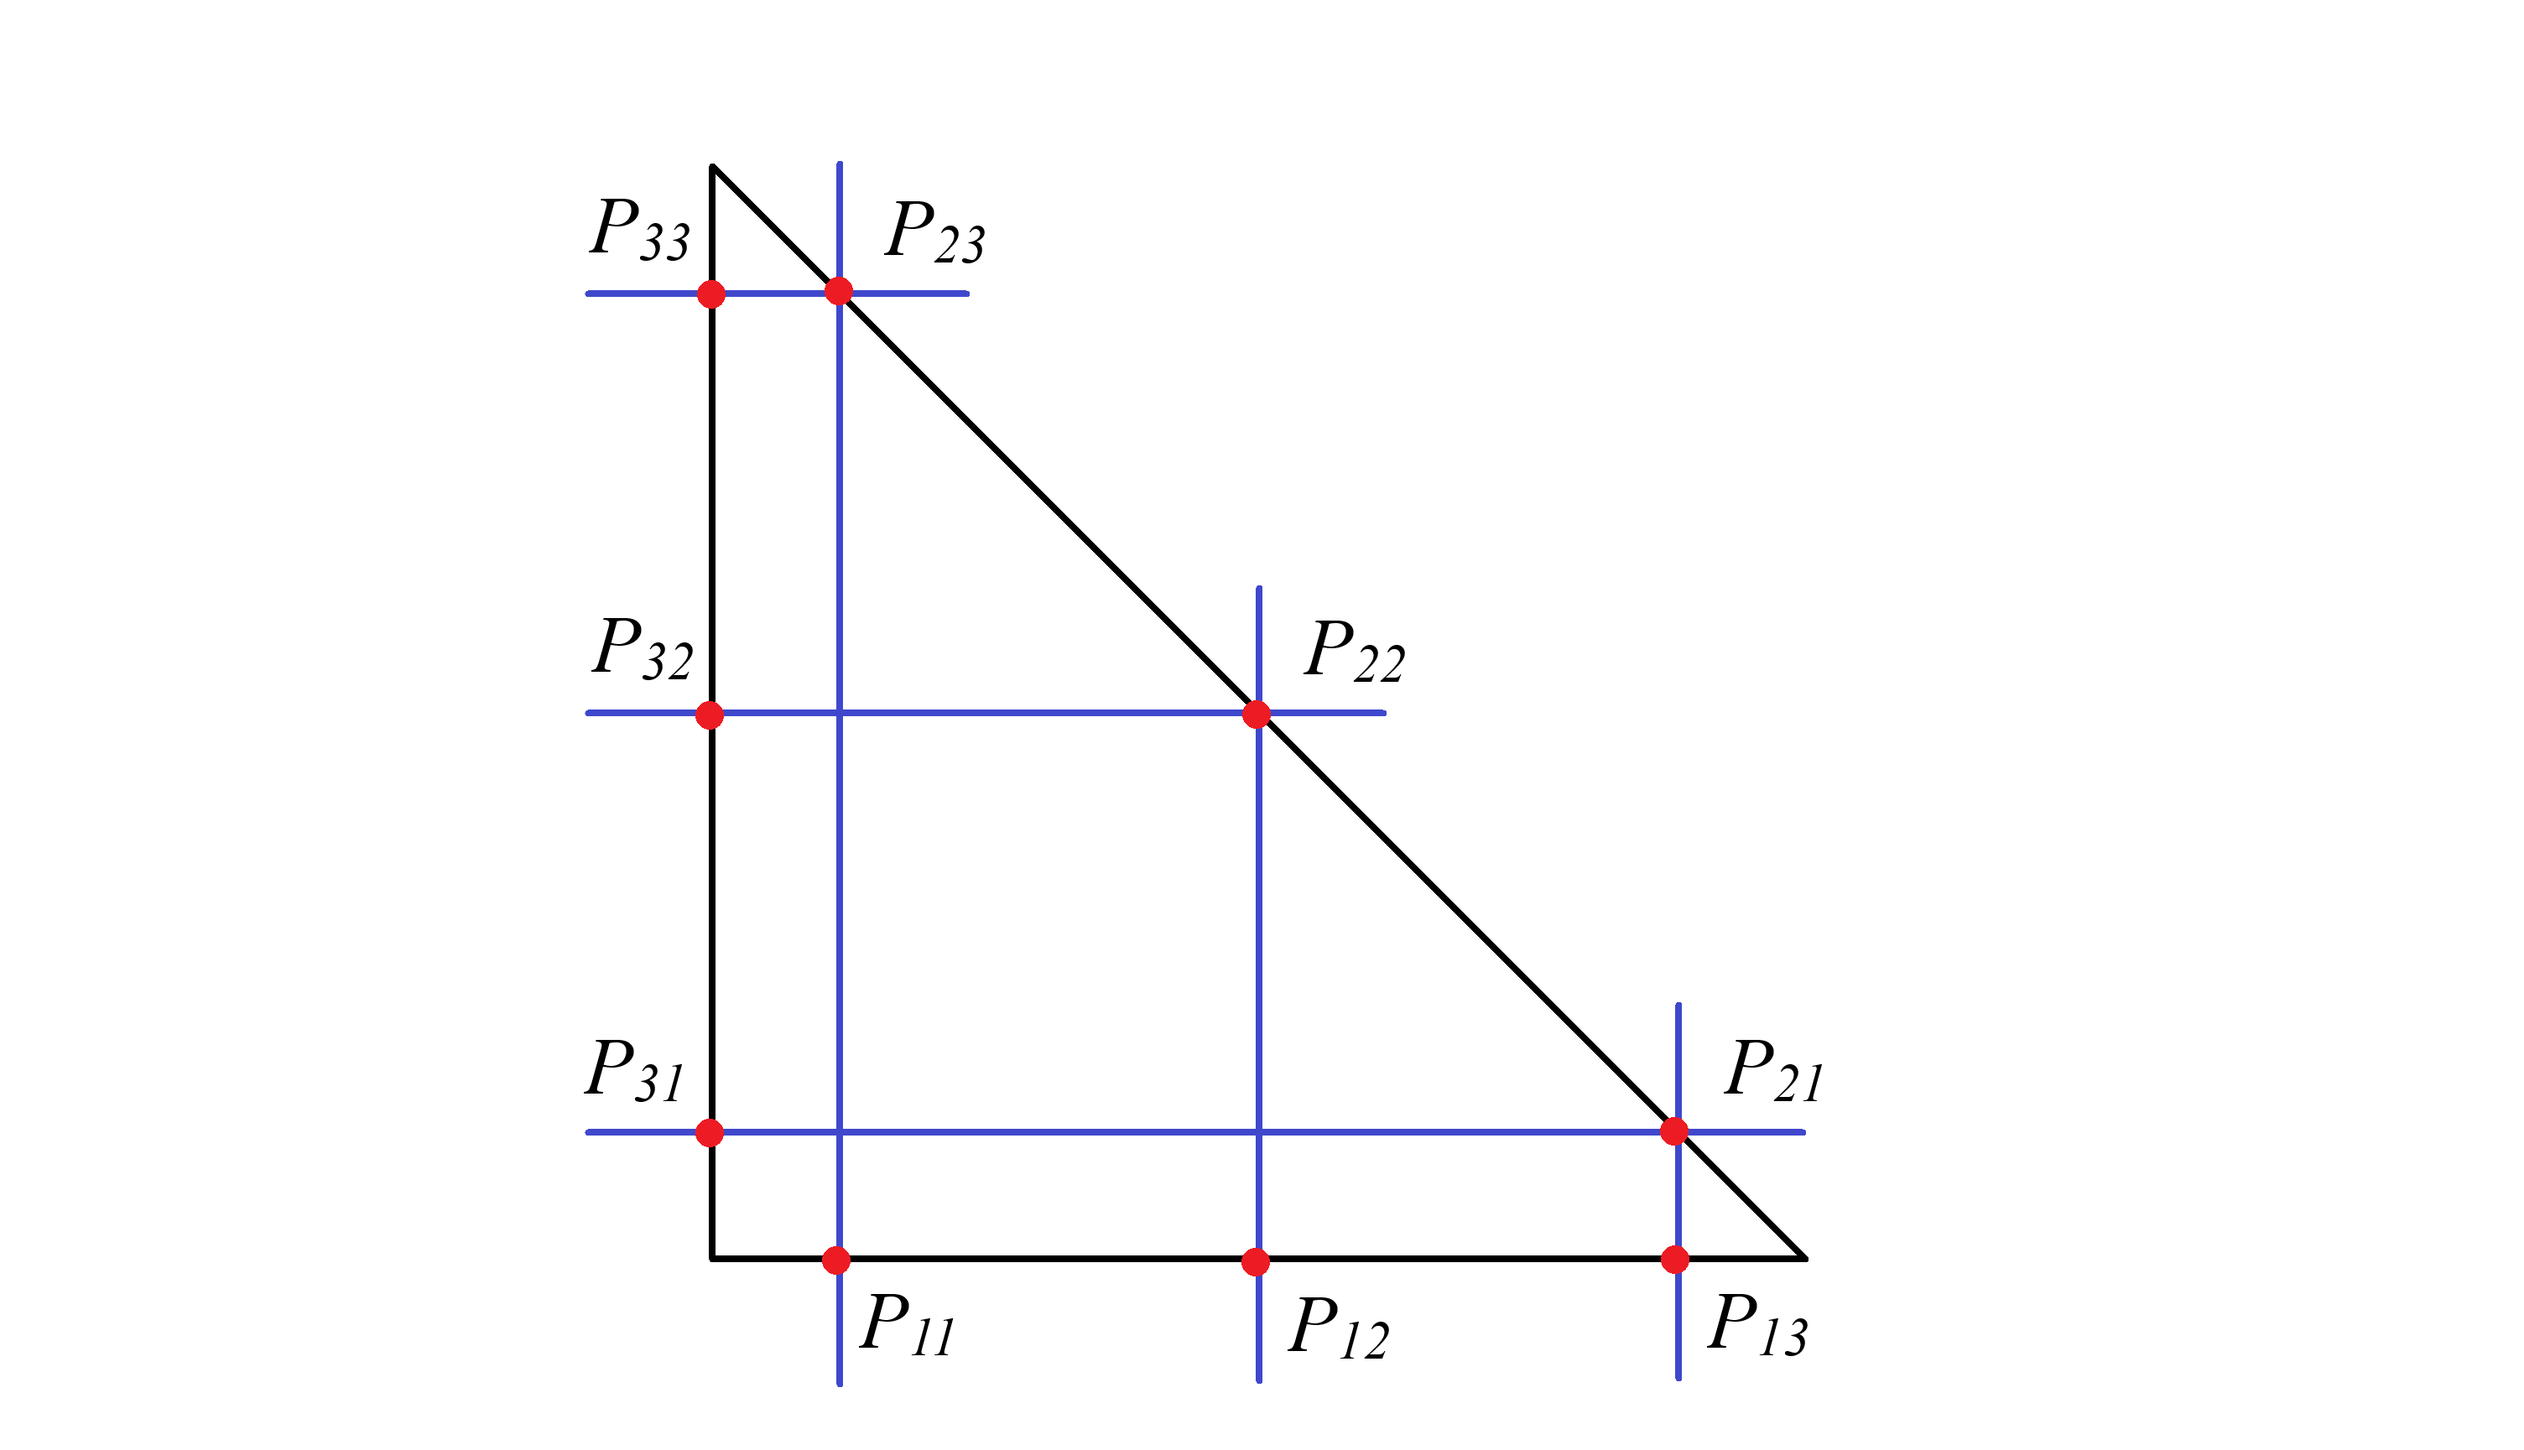
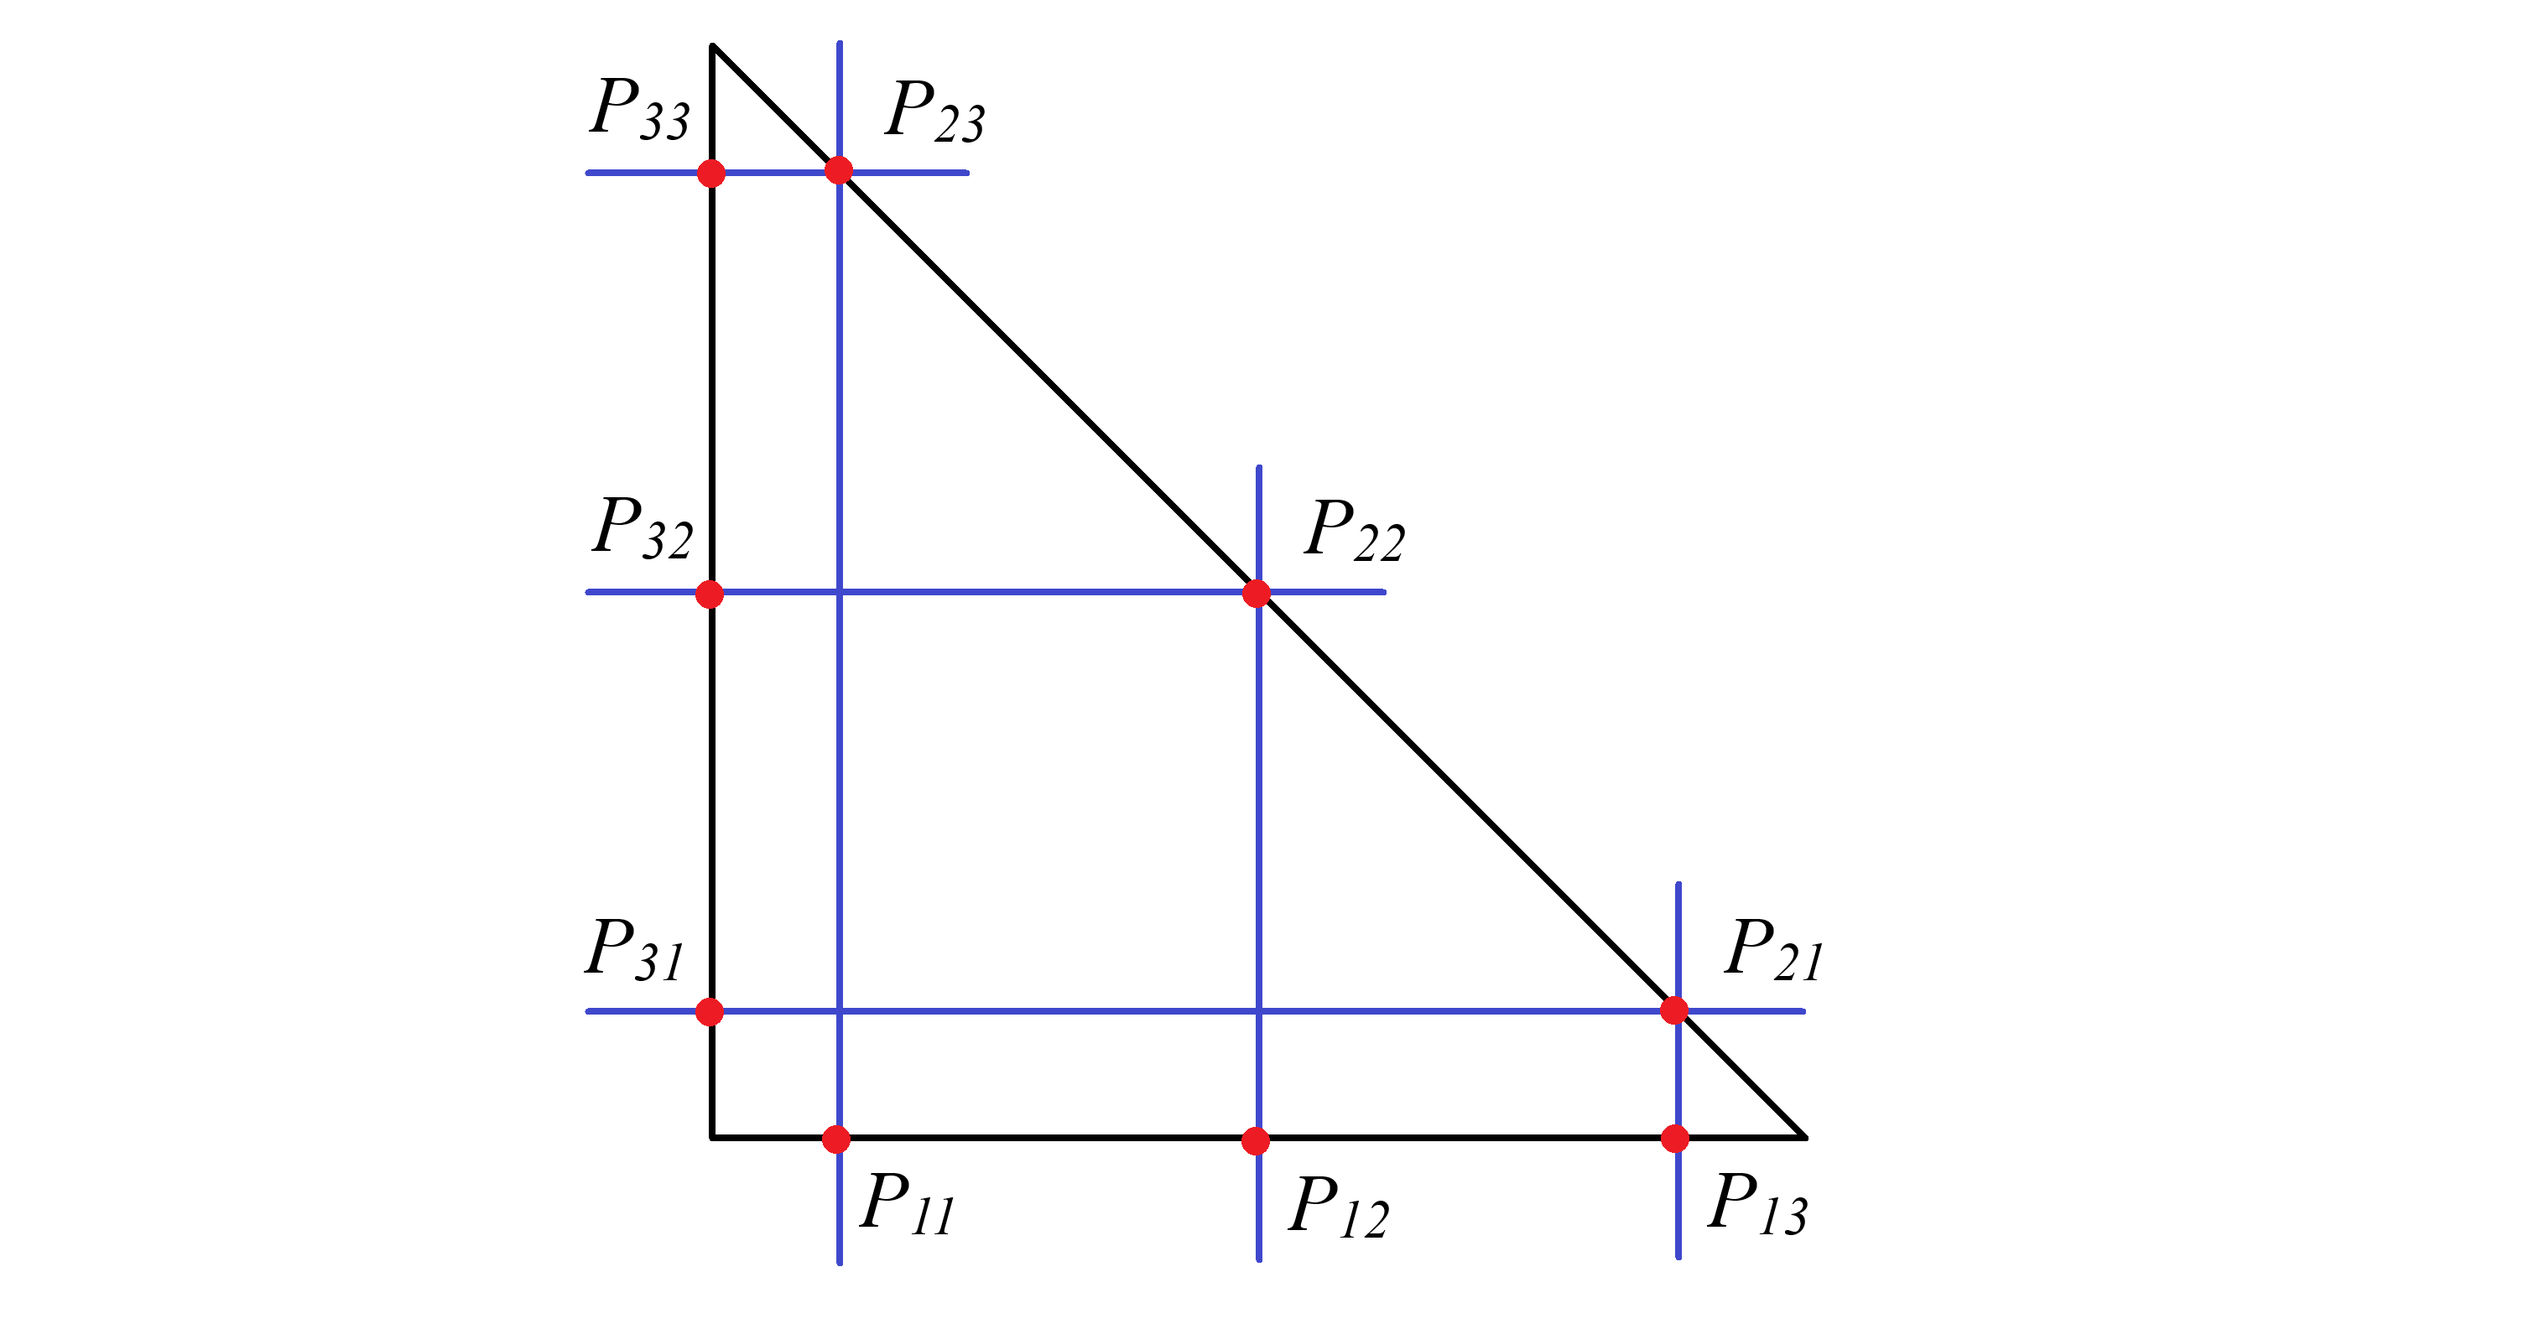
Temp

diff --git a/scripts/shape_function_vis_triangle.py b/scripts/shape_function_vis_triangle.py
@@ -1,0 +1,39 @@
+import numpy as np
+import matplotlib.pyplot as plt
+from mpl_toolkits.mplot3d import Axes3D
+
+def plot_outline(ax: Axes3D):
+    xi_outline = [-1, 1, -1, -1]
+    eta_outline = [-1, -1, 1, -1]
+
+    # ax.plot(xi_outline, eta_outline, temp(np.array(xi_outline), np.array(eta_outline)), color='r', linewidth=2)
+    # ax.plot(xi_outline, eta_outline, temp2(np.array(xi_outline), np.array(eta_outline)), color='r', linewidth=2)
+    # ax.plot(xi_outline, eta_outline, temp3(np.array(xi_outline), np.array(eta_outline)), color='r', linewidth=2)
+    ax.plot(xi_outline, eta_outline, N1(np.array(xi_outline), np.array(eta_outline)), color='k', linewidth=2)
+    ax.plot(xi_outline, eta_outline, N2(np.array(xi_outline), np.array(eta_outline)), color='k', linewidth=2)
+    ax.plot(xi_outline, eta_outline, N3(np.array(xi_outline), np.array(eta_outline)), color='k', linewidth=2)
+
+# temp = lambda xi, eta: 0.1127
+# temp2 = lambda xi, eta: 0.8873
+# temp3 = lambda xi, eta: 0.5
+N1 = lambda xi, eta: -0.5 * (xi+eta)
+N2 = lambda xi, eta: 0.5 * (1+xi)
+N3 = lambda xi, eta: 0.5 * (1+eta)
+
+fig = plt.figure()
+ax: Axes3D = fig.add_subplot(projection='3d')
+
+xi, eta = np.meshgrid(np.linspace(-1, 1, 100), np.linspace(-1, 1, 100))
+mask = (xi + eta < 0)
+N1_masked = np.where(mask, N1(xi, eta), np.nan)
+N2_masked = np.where(mask, N2(xi, eta), np.nan)
+N3_masked = np.where(mask, N3(xi, eta), np.nan)
+
+ax.plot_surface(xi, eta, N3_masked, cmap='plasma', alpha=0.8)
+plot_outline(ax)
+ax.set_xlabel('ξ')
+ax.set_ylabel('η')
+ax.set_zlabel('N\u2083(ξ, η)')
+
+plt.tight_layout()
+plt.show()
